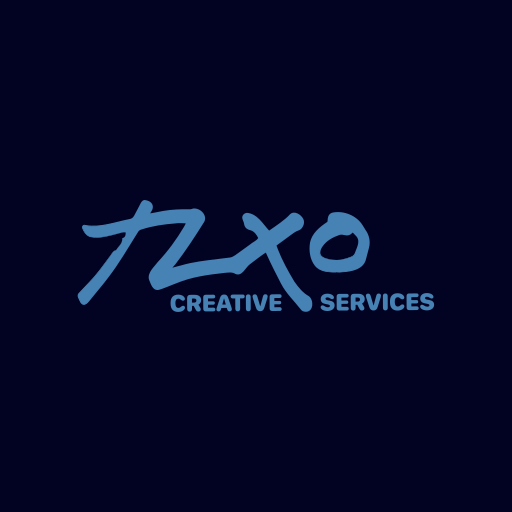
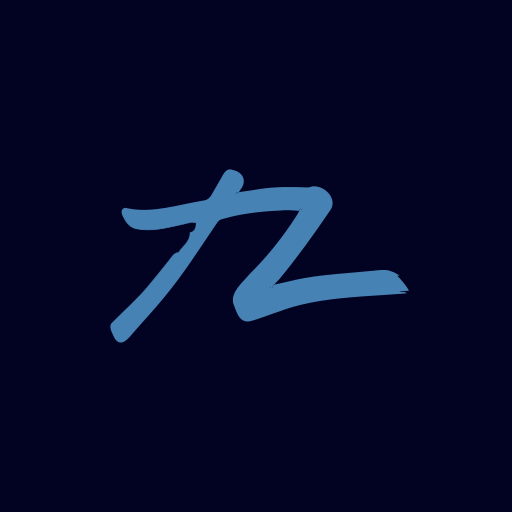
Rebrand from TLXO Creative Services to Toni Laakso / tlxo
The sole proprietorship is on hiatus, so the business name, logo and address
should not be in use while employed elsewhere.

- SITE.title -> 'Toni Laakso / tlxo'; AUTHOR.name -> 'Toni Laakso'
- Email hello@tlxo.fi -> toni@lxo.fi throughout
- Remove public/images/tlxo-cs-logo.svg (the 'tlxo CREATIVE SERVICES' lockup);
  it was also being served publicly. Recoverable from git history.
- Header, hero and generated icons now use icon.svg. The plain tlxo-logo.svg
  wordmark is black ink and was invisible on the dark background.
- Rewrite About as a personal bio without service-offering language, and add an
  explicit 'nothing here speaks for my employer' line
- Regenerate og-default.png and app icons; update site.webmanifest

Changed region(s): [[0.1562, 0.3125, 0.8438, 0.6875]]

diff --git a/src/consts.ts b/src/consts.ts
@@ -1,21 +1,21 @@
 /** Single source of truth for site metadata. Imported by SEO, feeds and nav. */
 
 export const SITE = {
-	title: 'TLXO Creative Services',
+	title: 'Toni Laakso / tlxo',
 	/** Used as the fallback <meta name="description"> and in the RSS feed. */
-	description: 'Inclusive digital products and services.',
-	tagline: 'Inclusive digital products and services.',
+	description: 'Writing about accessible, inclusive digital products — and things I make for fun.',
+	tagline: 'Accessible, inclusive digital products — and things I make for fun.',
 	url: 'https://tlxo.fi',
 	locale: 'en',
 	/** BCP 47 tag for <html lang>. */
 	lang: 'en',
-	email: 'hello@tlxo.fi',
+	email: 'toni@lxo.fi',
 	defaultOgImage: '/images/og-default.png',
 } as const;
 
 export const AUTHOR = {
 	id: 'toni',
-	name: 'Toni',
+	name: 'Toni Laakso',
 	url: 'https://tlxo.fi',
 } as const;
 

diff --git a/src/content/pages/about.md b/src/content/pages/about.md
@@ -1,17 +1,15 @@
 ---
 title: 'About'
-description: 'TLXO Creative Services builds inclusive digital products and services.'
+description: 'Toni Laakso — writing about accessible, inclusive digital products.'
 order: 1
 ---
 
-TLXO Creative Services is the working name for what I do: building digital products that
-work for the people who usually get designed around rather than designed for.
+I'm Toni Laakso. I build digital products that work for the people who usually get designed
+around rather than designed for — mostly accessibility, front-end development, and the kind
+of early design review that stops expensive problems from being built in the first place.
 
-In practice that means accessibility consulting, front-end development, and the sort of
-early-stage design review that stops expensive problems from being built in the first
-place.
+This site is a personal one. I write here about that work, and separately about things I
+make for fun. The two are tagged differently, so you can read one and skip the other.
+Nothing here speaks for my employer.
 
-I write here about that work, and separately about things I do for fun. The two are tagged
-differently, so you can read one and skip the other.
-
-Get in touch at [hello@tlxo.fi](mailto:hello@tlxo.fi).
+Get in touch at [toni@lxo.fi](mailto:toni@lxo.fi).
